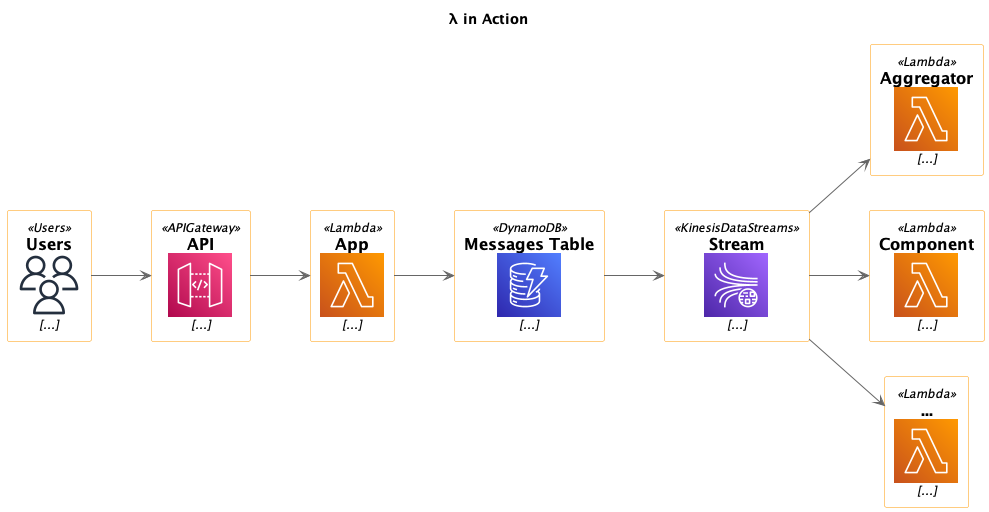
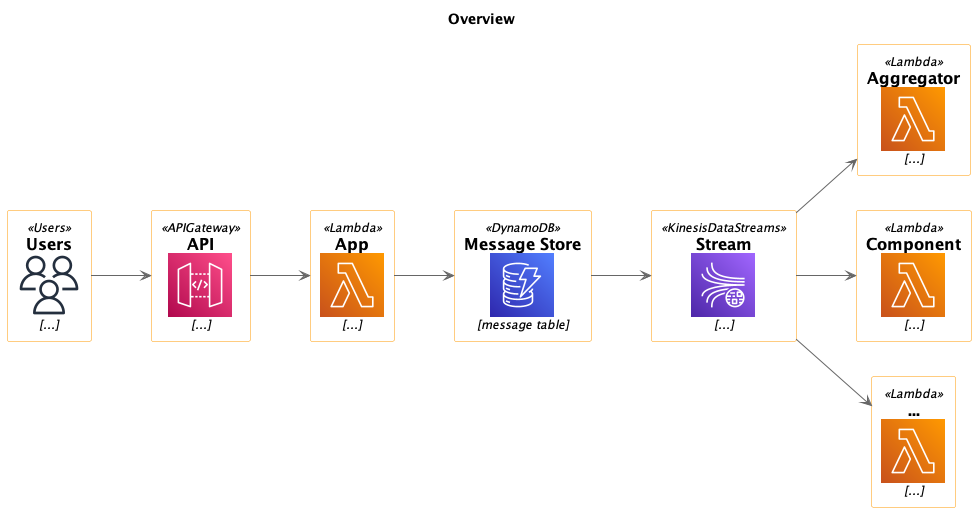
Add dynamo db message table

diff --git a/infrastructure/main.ts b/infrastructure/main.ts
@@ -63,6 +63,16 @@ class MyStack extends TerraformStack {
             handler: 'index.handler',
             runtime: 'nodejs16.x'
         });
+
+        new aws.dynamodbTable.DynamodbTable(this, 'messages-table-dynamodb', {
+            name: "messages-sam",
+            billingMode: "PAY_PER_REQUEST",
+            hashKey: "id",
+            attribute: [{
+                name: "id",
+                type: "S"
+            }]
+        })
     }
 }
 

diff --git a/README.md b/README.md
@@ -74,6 +74,17 @@ It should show something like this
 Generated typescript constructs in the output directory: .gen
 ```
 
+### How can I deploy changes
+
+Generates a diff by running Terraform plan:
+```
+npx cdktf diff
+```
+
+Deploy:
+```
+npx cdktf deploy
+```
 
 ### I get the following error. What should I do? Knex: Timeout acquiring a connection. The pool is probably full. Are you missing a .transacting(trx) call?
 
